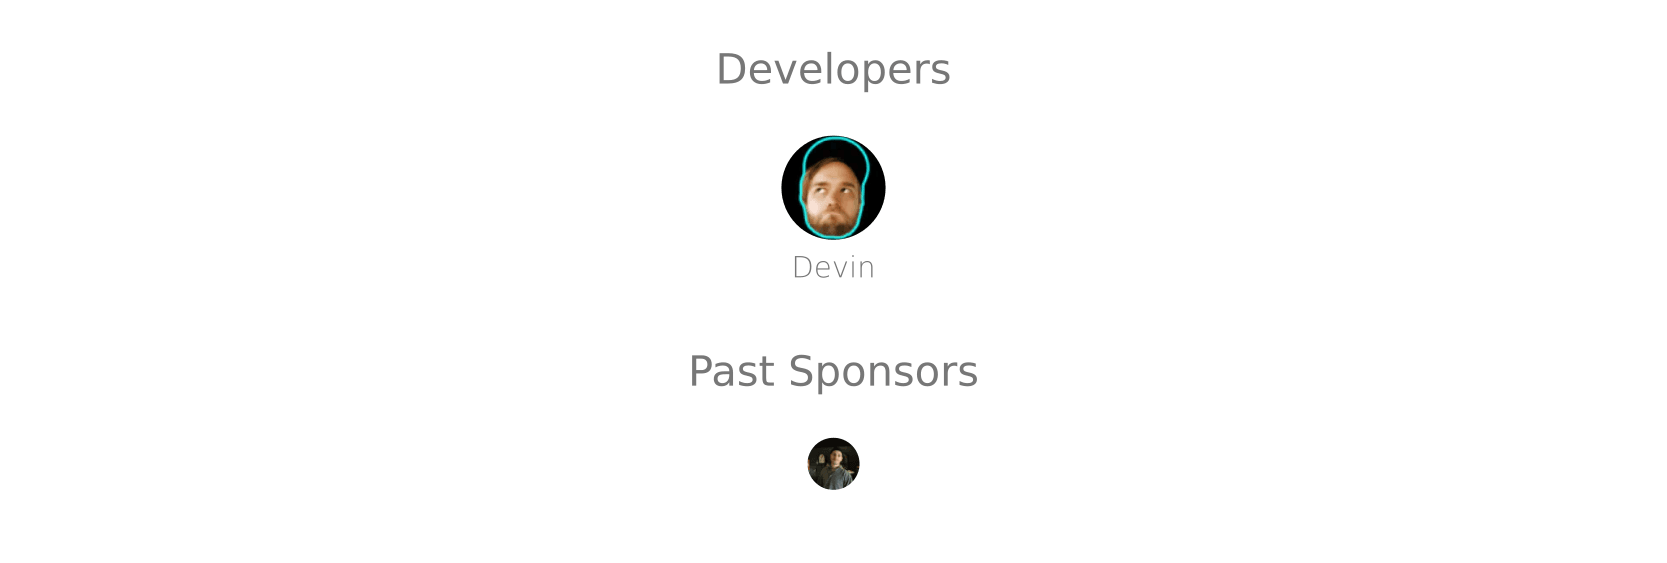
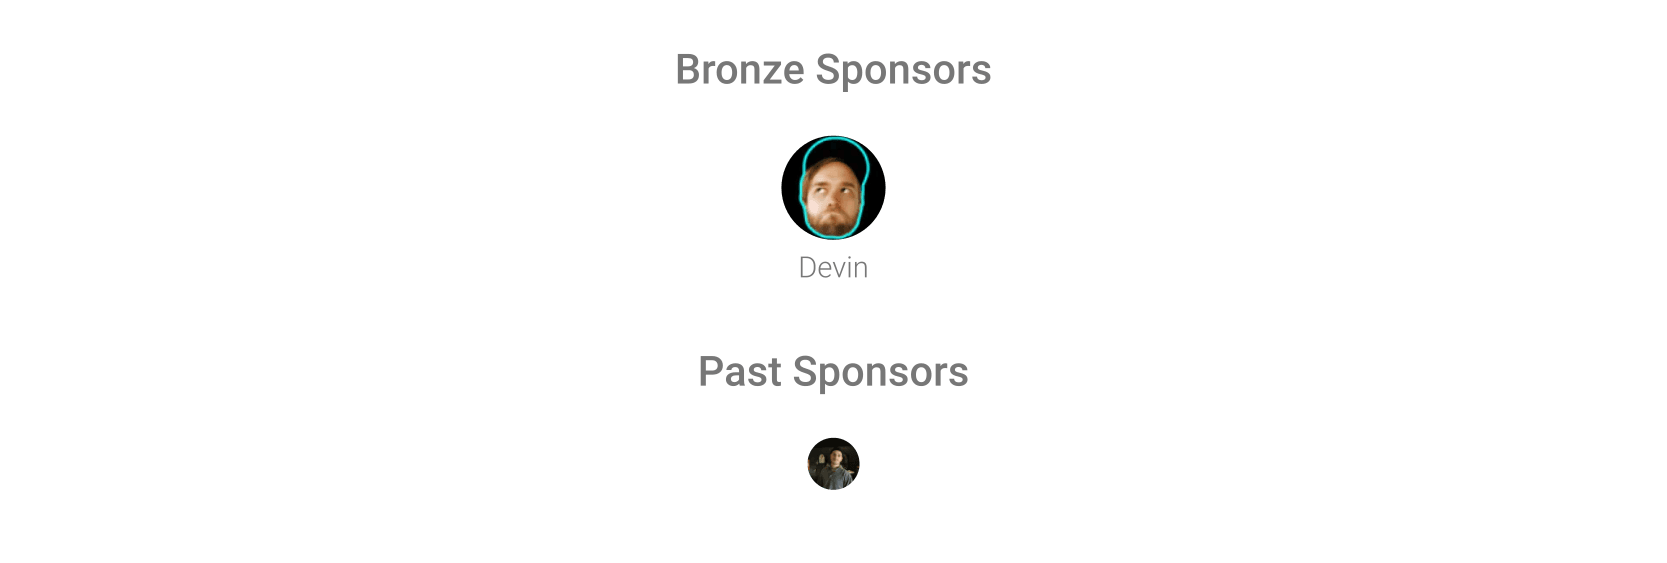
up

Changed region(s): [[0.4055, 0.6341, 0.5927, 0.6945], [0.4055, 0.0906, 0.5927, 0.151], [0.4679, 0.4529, 0.5303, 0.5133]]

diff --git a/sponsorkit.config.ts b/sponsorkit.config.ts
@@ -37,7 +37,7 @@ export default defineConfig({
     },
     // $32 tier - Vote on features
     {
-      title: 'Developers',
+      title: 'Bronze Sponsors',
       monthlyDollars: 32,
       preset: tierPresets.medium,
     },
@@ -97,7 +97,7 @@ export default defineConfig({
   },
 
   // Additional renders for different formats
-  renders: [
+  /*renders: [
     {
       name: 'sponsors',
       width: 800,
@@ -135,5 +135,5 @@ export default defineConfig({
         radiusPast: 3
       }
     }
-  ]
+  ]*/
 })

diff --git a/README.md b/README.md
@@ -10,6 +10,6 @@ https://cdn.jsdelivr.net/gh/hugorcd/static/sponsors.svg
 
 <p align="center">
   <a href="https://cdn.jsdelivr.net/gh/hugorcd/static/sponsors.svg">
-    <img src='https://cdn.jsdelivr.net/gh/hugorcd/static/sponsors.svg'/>
+    <img src='https://cdn.jsdelivr.net/gh/hugorcd/static/sponsors.svg' alt="HugoRCD sponsors" />
   </a>
 </p>
